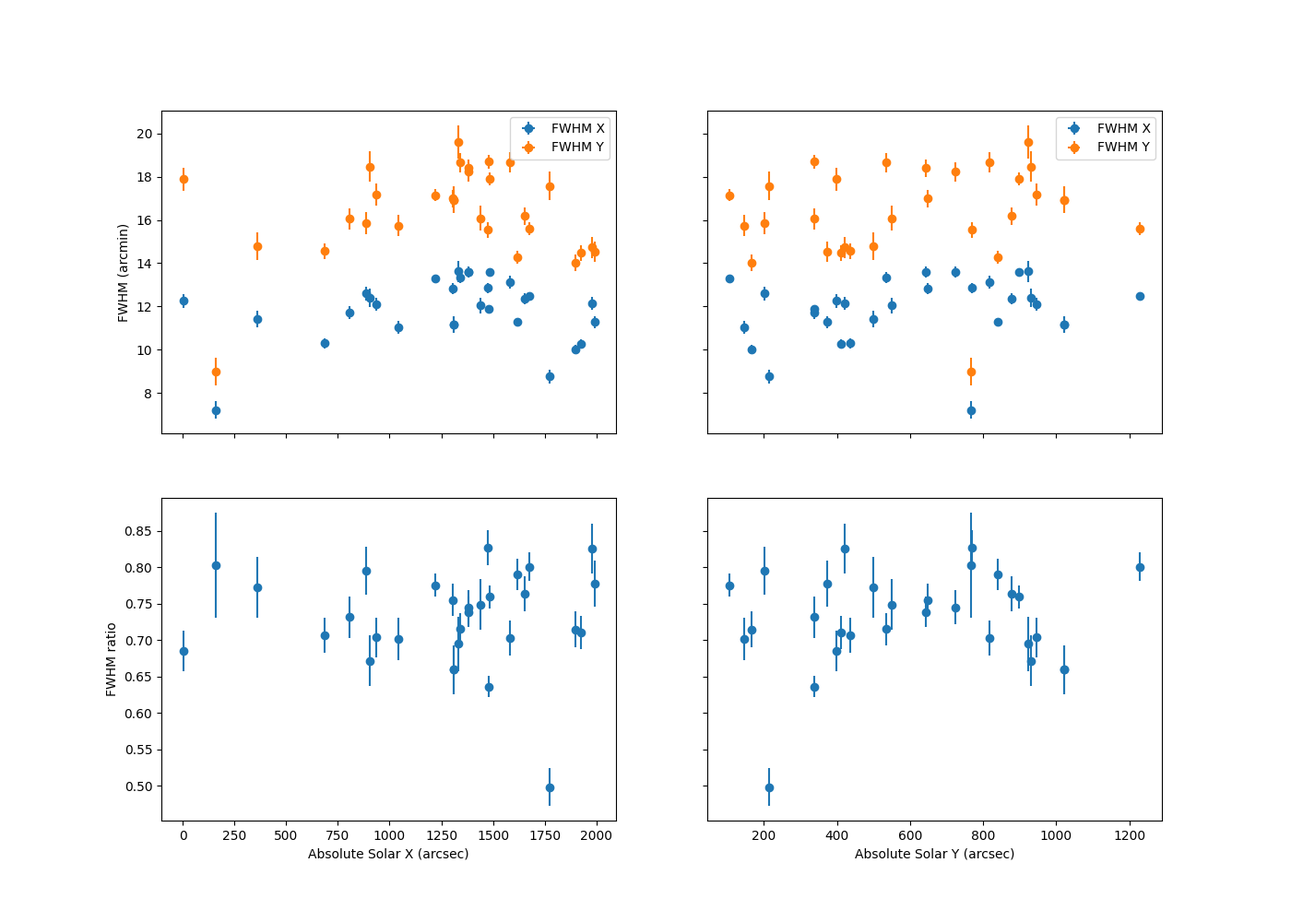
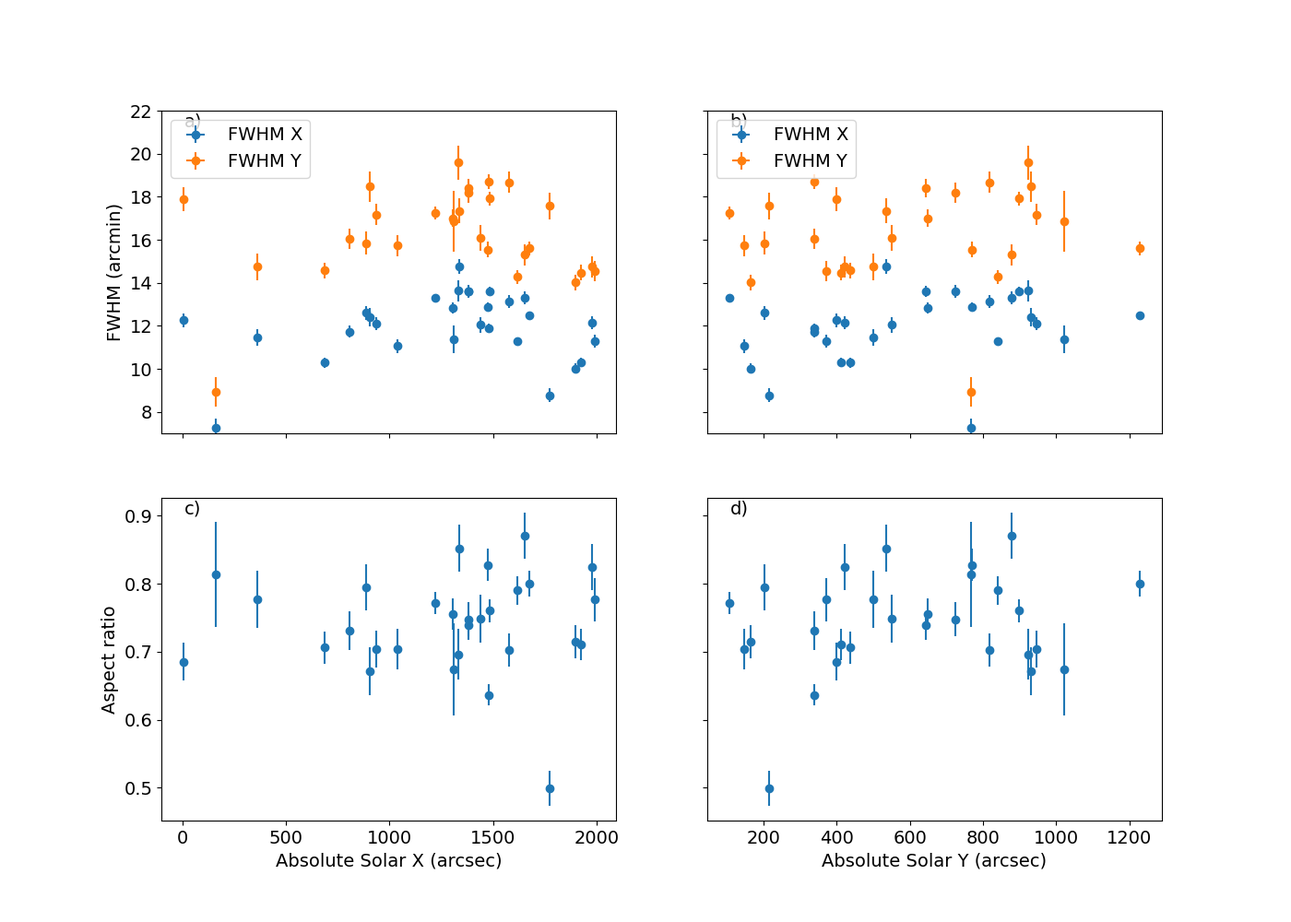
adding analysis from Eoin's comments

diff --git a/5/observations_vs_theory.tex b/5/observations_vs_theory.tex
@@ -2,7 +2,7 @@
 \doublespacing
 \chapter{The intrinsic sizes of Type III radio bursts and comparison to recent simulations.}
 \label{chap:observations_vs_theory}
-Recent developments in the modelling of radio waves in a turbulent corona have made predictions about source sizes that have not yet been qualitatively compared to interferometric observations. Scattering of radio waves off of density inhomogeneities in the solar corona is considered to be the dominant cause of the size and shape of radio bursts. By understanding scattering, the turbulent nature of processes that generate density inhomogeneities can be studied. Turbulence in the corona can give insight into how energy is transferred from large scale phenomena down to the microscales potentially resulting in the million degree Kelvin temperatures that have puzzled solar physicists for decades. New models of radio wave scattering, therefore, are the first step to solving fundamental physical problems in the solar corona. However, unless the models agree with observations, their use is limited and as such, comparisons between models and observations are crucial. In this chapter I utilise the direct visibility fitting method described in Chapter \ref{chap:measuring_source_sizes} and apply it to 30 Type III radio bursts observed with LOFAR from 10-90~MHz. Using a Markov Chain Monte Carlo (MCMC) fitting method, it is determined that these bursts have a mean size along the major and minor axis of FWHM\textsubscript{x} = 16.27 arcmin and FWHM\textsubscript{y} = 11.96 arcmin respectively. No trend of source size with respect to helioprojective angle is found, which is in direct contrast to predictions from modelling if the intrinsic size of a burst is a point source and the degree of anisotropy is high $\alpha \sim 0.3$. I discuss reasons for this discrepancy and how improved imaging and additions to scattering models can be used to resolve them.
+Recent developments in the modelling of radio waves in a turbulent corona have made predictions about source sizes that have not yet been qualitatively compared to interferometric observations. Scattering of radio waves off of density inhomogeneities in the solar corona is considered to be the dominant cause of the size and shape of radio bursts. By understanding scattering, the turbulent nature of processes that generate density inhomogeneities can be studied. Turbulence in the corona can give insight into how energy is transferred from large scale phenomena down to the microscales potentially resulting in the million degree Kelvin temperatures that have puzzled solar physicists for decades. New models of radio wave scattering, therefore, are the first step to solving fundamental physical problems in the solar corona. However, unless the models agree with observations, their use is limited and as such, comparisons between models and observations are crucial. In this chapter I utilise the direct visibility fitting method described in Chapter \ref{chap:measuring_source_sizes} and apply it to 29 Type III radio bursts observed with LOFAR from 10-90~MHz. Using a Markov Chain Monte Carlo (MCMC) fitting method, it is determined that these bursts have a mean size along the major and minor axis of FWHM\textsubscript{x} = 16.27 arcmin and FWHM\textsubscript{y} = 11.96 arcmin respectively. No trend of source size with respect to helioprojective angle is found, which is in direct contrast to predictions from modelling if the intrinsic size of a burst is a point source and the degree of anisotropy is high $\alpha \sim 0.3$. I discuss reasons for this discrepancy and how improved imaging and additions to scattering models can be used to resolve them.
 %This study suggests that although many are in agreement, further exploration of the parameters of scattering simulations are necessary before they can be used to predict the nature of coronal density inhomogeneities.
 
 \section{Introduction}
@@ -33,13 +33,13 @@ During the period 04 April 2019 to 14 April 2019 a Type III storm occurred on th
 
 \section{Method}
 \label{sec:obsvtheory_method}
-The size and position of 30 Type III radio bursts over the period of 04 April 2019 to 14 April 2019 were determined by directly fitting their interferometric visibilities. The bursts were identified in LOFAR beamformed observations and their peak time determined using an automatic peak finding algorithm. Peaks are found from the spectrum by first averaging over 16 subbands around 30~MHz and smoothing the resulting time series. Then the \texttt{scipy} Python library \citep{Virtanen2020} is used to determine the peaks by comparing to neighbouring values. This list of peaks is filtered so that only peaks greater than 5 times the standard deviation of the background are returned.
-Figure \ref{fig:dynamic_spectrum_070419} shows the automatically identified bursts at 30~MHz. In total, 320 bursts were identified in this way. Unfortunately, due to the strength of some of the radio bursts, the calibration of interferometric data did not converge for $\sim 90 \%$ of them. This occurs when flux from the source is detected in the side lobes of the beam observing the calibrator. Poor calibration is only identified by manual inspection of the calibrated visibilities. Calibration was successful for 30 bursts.  
+The size and position of 29 Type III radio bursts over the period of 04 April 2019 to 14 April 2019 were determined by directly fitting their interferometric visibilities. The bursts were identified in LOFAR beamformed observations and their peak time determined using an automatic peak finding algorithm. Peaks are found from the spectrum by first averaging over 16 subbands around 30~MHz and smoothing the resulting time series. Then the \texttt{scipy} Python library \citep{Virtanen2020} is used to determine the peaks by comparing to neighbouring values. This list of peaks is filtered so that only peaks greater than 5 times the standard deviation of the background are returned.
+Figure \ref{fig:dynamic_spectrum_070419} shows the automatically identified bursts at 30~MHz. In total, 320 bursts were identified in this way. Unfortunately, due to the strength of some of the radio bursts, the calibration of interferometric data did not converge for $\sim 90 \%$ of them. This occurs when flux from the source is detected in the side lobes of the beam observing the calibrator. Poor calibration is only identified by manual inspection of the calibrated visibilities. Calibration was successful for 29 bursts.  
 
 \begin{figure}[ht]
 \centering
-\includegraphics[width=\columnwidth]{peak_times_30MHz_2019-04-07T120000_130000.png}
-\caption[Dynamic spectrum of Type III storm on 07 April 2019.]{Dynamic spectrum of Type III storm on 07 April 2019. The white dots indicate the bursts identified by an automatic peak finding algorithm, the red cross indicates the brightest burst.}
+\includegraphics[width=\columnwidth]{peak_times_30MHz_wlightcurve_2019-04-07T120000_130000.png}
+\caption[Type III storm observed on 07 April 2019.]{Type III storm observed on 07 April 2019. The top panel is the light curve at 30~MHz and the red dots indicate the detected peaks. The maximum peak is marked with a white cross. The bottom panel shows the dynamic spectrum of the storm. The white dots indicate the bursts identified by an automatic peak finding algorithm, the red cross indicates the brightest burst.}
 \label{fig:dynamic_spectrum_070419}
 \end{figure}
 
@@ -54,7 +54,7 @@ The most common form of MCMC algorithm is the Metropolis-Hastings (M-H) method w
 \label{eq:MHnewstate}
 a = \frac{p(x^\prime \vert D)}{p(x^{t} \vert D)} \frac{Q(x^\prime;x^{(t)})}{Q(x^{(t)};x^\prime)}
 \end{equation}
-is computed. If $a > 1$ the new state is accepted, otherwise it is accepted with probability $a$. Note that if a state is not accepted, the position $x^{(t)}$ is repeated on the chain. Successive samples in a Markov chain are dependent meaning that it is only as $t \rightarrow \infty$, that the probability density function of $x^{(t)}$ tends towards $p(\Theta \vert D)$. An improvement to the M-H algorithm which speeds up convergence is proposed by \cite{Goodman2010} and implemented in the \texttt{emcee} Python library \citep{Foreman-Mackey2012}. This method uses an ensemble of \textit{walkers} to determine the proposal distribution. For each walker $k$ in an ensemble of $K$ walkers, the proposed state is determined by the positions of the remaining $K-1$ walkers in the ensemble. To determine a move for the walker at $x_k^{(t)}$, a walker $x_j, j \neq k$ is chosen from the ensemble and the proposed move has the form
+is computed. If $a > 1$ the new state is accepted and the next iteration occurs. Otherwise the state is accepted with probability $a$. Note that if a state is not accepted, the position $x^{(t)}$ is repeated on the chain. Successive samples in a Markov chain are dependent meaning that it is only as $t \rightarrow \infty$, that the probability density function of $x^{(t)}$ tends towards $p(x \vert D)$. An improvement to the M-H algorithm which speeds up convergence is proposed by \cite{Goodman2010} and implemented in the \texttt{emcee} Python library \citep{Foreman-Mackey2012}. This method uses an ensemble of \textit{walkers} to determine the proposal distribution. For each walker $k$ in an ensemble of $K$ walkers, the proposed state is determined by the positions of the remaining $K-1$ walkers in the ensemble. To determine a move for the walker at $x_k^{(t)}$, a walker $x_j, j \neq k$ is chosen from the ensemble and the proposed move has the form
 \begin{equation}
 \label{eq:MCMC_walkers}
 x_k^{(t)} \rightarrow x^\prime = x_j + Z(x_k^{(t)} - x_j).
@@ -92,12 +92,12 @@ Once the MCMC has run for enough time to generate independent samples of the pos
 \end{figure}
 
 %As well as determining the source shape and position at its peak, the area of the source over its duration was also measured. This was done by fitting a straight line to the source area over the duration of the burst, which was estimated to be 1 second before its peak and 2 seconds afterwards.
-
+The magnetic field structure around AR 12738 was determined by using a Potential Field Source Surface (PFSS) model using the Python library \texttt{pfsspy} \citep{Stansby2020}.
 
 
 \section{Results}
 \label{sec:obsvtheory_results}
-The parameters for all 30 fitted bursts are given in Table \ref{tab:dataset} where $I_0$ is the maximum intensity of the burst, $x_0$ and $y_0$ are the x and y  helioprojective coordinates of the burst, FWHM\textsubscript{x} and FWHM\textsubscript{y} are the burst sizes in the x and y direction and $\theta$ is the position angle of the fitted Gaussian. Each fitted type III burst is plotted in helioprojective coordinates in Figure \ref{fig:burst_overlay}. It is clear from the figure that most bursts share a similar size and aspect ratio despite their relatively widespread origin in relation to the Sun's disk.
+The parameters for all 29 fitted bursts are given in Table \ref{tab:dataset} where $I_0$ is the maximum intensity of the burst, $x_0$ and $y_0$ are the x and y  helioprojective coordinates of the burst, FWHM\textsubscript{x} and FWHM\textsubscript{y} are the burst sizes in the x and y direction and $\theta$ is the position angle of the fitted Gaussian. Each fitted type III burst is plotted in helioprojective coordinates in Figure \ref{fig:burst_overlay}. It is clear from the figure that most bursts share a similar size and aspect ratio despite their relatively widespread origin in relation to the Sun's disk.
 
 \begin{figure}[ht]
 \centering
@@ -109,43 +109,42 @@ The parameters for all 30 fitted bursts are given in Table \ref{tab:dataset} whe
 %\begin{landscape}
 \begin{table}
 \centering
-\caption[Table of fitted burst parameters]{Table of fitted burst parameters for each of the 30 bursts described in Section \ref{sec:obsvtheory_method}. The units in each column are given in brackets. Here $I_0$ is the maximum intensity of the burst, $x_0$ and $y_0$ are the x and y helioprojective coordinates of the burst, FWHM\textsubscript{x} and FWHM\textsubscript{y} are the burst sizes along the minor and major axes and $\theta$ is the position angle of the fitted Gaussian.}
+\caption[Table of fitted burst parameters]{Table of fitted burst parameters for each of the 29 bursts described in Section \ref{sec:obsvtheory_method}. The units in each column are given in brackets. Here $I_0$ is the maximum intensity of the burst, $x_0$ and $y_0$ are the x and y helioprojective coordinates of the burst, FWHM\textsubscript{x} and FWHM\textsubscript{y} are the burst sizes along the minor and major axes and $\theta$ is the position angle of the fitted Gaussian.}
 \label{tab:dataset}
-\begin{tabular}{lcccccc}
+\begin{tabular}{lcccccc p{\columnwidth}}
 \toprule
 Burst Time & $I_0$  & $x_0$ & $y_0$  & FWHM\textsubscript{x} & FWHM\textsubscript{y} & $\theta$ \\
- & (Jy) & (arcsec) & (arcsec) & (arcmin) & (arcmin) &  (deg) \\
+ 2019-04 & (Jy) & (arcsec) & (arcsec) & (arcmin) & (arcmin) &  (deg) \\
 \midrule
-2019-04-05T12:08:08 &   90333.34 & -1772.89 &   213.66 &    8.76 &   17.58 &  -26.59 \\
-2019-04-07T12:02:28 &   83782.44 & -1924.03 &   411.53 &   10.28 &   14.48 &  -56.52 \\
-2019-04-07T12:04:21 &  108123.57 & -1990.30 &   372.36 &   11.29 &   14.52 &  -66.65 \\
-2019-04-07T12:15:07 &  160081.88 & -1677.12 &  1228.90 &   12.48 &   15.59 &  -43.79 \\
-2019-04-07T12:30:59 &  120107.74 & -1896.80 &   165.35 &   10.01 &   14.02 &  -56.17 \\
-2019-04-07T12:51:39 &   47916.36 & -1979.35 &   420.47 &   12.15 &   14.72 &  -67.42 \\
-2019-04-08T12:00:15 &  117196.69 & -1310.37 &  1020.77 &   11.16 &   16.93 &  -63.68 \\
-2019-04-08T12:00:15 &  117196.69 & -1310.37 &  1020.77 &   11.16 &   16.93 &  -63.68 \\
-2019-04-08T12:06:40 &  316272.33 & -1579.55 &   818.51 &   13.12 &   18.67 &  -65.64 \\
-2019-04-08T12:08:36 &   60696.79 & -1616.67 &   840.69 &   11.28 &   14.28 &  -50.02 \\
-2019-04-08T12:22:34 &  171058.10 & -1380.68 &   643.10 &   13.59 &   18.40 &  -60.80 \\
-2019-04-08T12:26:53 &  111428.17 & -1479.15 &   338.94 &   11.89 &   18.69 &  -58.46 \\
-2019-04-08T12:29:00 &   77443.59 & -1341.21 &   533.82 &   13.33 &   18.65 &  -58.68 \\
-2019-04-08T12:34:57 &  176944.04 &  -934.63 &   947.11 &   12.09 &   17.18 &  -71.76 \\
-2019-04-08T12:35:35 &  277659.44 &  -902.94 &   931.06 &   12.39 &   18.46 &  -61.85 \\
-2019-04-08T12:42:59 &  119228.99 & -1653.25 &   878.17 &   12.36 &   16.18 &  -60.06 \\
-2019-04-08T12:47:06 &  155057.08 & -1381.63 &   723.48 &   13.58 &   18.22 &  -62.20 \\
-2019-04-08T12:48:49 &  296662.11 & -1305.03 &   648.47 &   12.83 &   16.99 &  -61.59 \\
-2019-04-08T12:50:26 &  129463.84 & -1331.87 &   924.36 &   13.61 &   19.59 &  -89.59 \\
-2019-04-08T12:54:34 &  207041.12 & -1485.08 &   898.27 &   13.60 &   17.91 &  -71.72 \\
-2019-04-08T12:59:24 &  177435.14 & -1473.30 &   768.77 &   12.85 &   15.54 &  -65.86 \\
-2019-04-11T12:56:26 &  215905.79 & -1221.80 &  -105.80 &   13.30 &   17.15 &   -0.49 \\
-2019-04-12T12:00:18 &  179265.16 &  -362.53 &   500.60 &   11.41 &   14.77 &  -87.46 \\
-2019-04-12T12:04:55 &  130911.18 &     3.26 &   399.69 &   12.25 &   17.88 & -101.70 \\
-2019-04-12T12:14:50 &   43288.32 & -1438.75 &  -549.49 &   12.04 &   16.08 &  -83.24 \\
-2019-04-12T12:39:31 &   86016.46 & -1040.30 &  -146.83 &   11.04 &   15.73 &  -91.31 \\
-2019-04-12T12:49:33 &   74776.61 &  -888.52 &  -202.43 &   12.60 &   15.84 &  -79.74 \\
-2019-04-12T12:51:54 &  132627.29 &  -805.26 &  -338.33 &   11.73 &   16.05 &  -82.21 \\
-2019-04-12T12:53:51 &  127718.17 &  -687.98 &  -436.28 &   10.29 &   14.56 &  -83.17 \\
-2019-04-13T12:30:30 &  100613.83 &  -162.06 &  -766.36 &    7.21 &    8.98 &  -75.73 \\
+05T12:08:08 &  $ 90300 \pm 1310$ & $-1773 \pm 6$  & $  214 \pm 8$  &  $  8.8 \pm 0.3$ &  $ 17.58 \pm 0.6$ & $ -27 \pm 2$ \\
+07T12:02:28 &  $ 83800 \pm  678$ & $-1924 \pm 3$  & $  412 \pm 4$  &  $ 10.3 \pm 0.2$ &  $ 14.48 \pm 0.4$ & $ -55 \pm 2$ \\
+07T12:04:21 &  $108000 \pm 1110$ & $-1990 \pm 5$  & $  372 \pm 5$  &  $ 11.3 \pm 0.3$ &  $ 14.52 \pm 0.5$ & $ -67 \pm 3$ \\
+07T12:15:07 &  $160000 \pm 1100$ & $-1677 \pm 3$  & $ 1229 \pm 4$  &  $ 12.5 \pm 0.2$ &  $ 15.59 \pm 0.3$ & $ -44 \pm 2$ \\
+07T12:30:59 &  $120000 \pm 1010$ & $-1897 \pm 4$  & $  165 \pm 4$  &  $ 10.0 \pm 0.2$ &  $ 14.02 \pm 0.4$ & $ -56 \pm 2$ \\
+07T12:51:39 &  $ 47900 \pm  505$ & $-1979 \pm 5$  & $  420 \pm 5$  &  $ 12.2 \pm 0.3$ &  $ 14.72 \pm 0.5$ & $ -67 \pm 4$ \\
+08T12:00:15 &  $117000 \pm 1770$ & $-1310 \pm 7$  & $ 1021 \pm 7$  &  $ 11.2 \pm 0.6$ &  $ 16.93 \pm 1.4$ & $ -64 \pm 78$ \\
+08T12:06:40 &  $316000 \pm 3380$ & $-1580 \pm 6$  & $  819 \pm 6$  &  $ 13.1 \pm 0.3$ &  $ 18.67 \pm 0.5$ & $ -66 \pm 2$ \\
+08T12:08:36 &  $ 60700 \pm  442$ & $-1617 \pm 3$  & $  841 \pm 4$  &  $ 11.3 \pm 0.2$ &  $ 14.28 \pm 0.3$ & $ -50 \pm 3$ \\
+08T12:22:34 &  $171000 \pm 1530$ & $-1381 \pm 5$  & $  643 \pm 5$  &  $ 13.6 \pm 0.2$ &  $ 18.40 \pm 0.4$ & $ -61 \pm 2$ \\
+08T12:26:53 &  $111000 \pm  800$ & $-1479 \pm 4$  & $  339 \pm 4$  &  $ 11.9 \pm 0.2$ &  $ 18.69 \pm 0.3$ & $ -58 \pm 1$ \\
+08T12:29:00 &  $ 77400 \pm  862$ & $-1341 \pm 6$  & $  534 \pm 6$  &  $ 13.3 \pm 0.3$ &  $ 18.65 \pm 0.6$ & $ -59 \pm 1$ \\
+08T12:34:57 &  $177000 \pm 1900$ & $ -935 \pm 5$  & $  947 \pm 5$  &  $ 12.1 \pm 0.3$ &  $ 17.18 \pm 0.5$ & $ -72 \pm 2$ \\
+08T12:35:35 &  $278000 \pm 4130$ & $ -903 \pm 8$  & $  931 \pm 8$  &  $ 12.4 \pm 0.4$ &  $ 18.46 \pm 0.7$ & $ -62 \pm 3$ \\
+08T12:42:59 &  $120000 \pm 1180$ & $-1653 \pm 5$  & $  878 \pm 5$  &  $ 12.4 \pm 0.3$ &  $ 16.18 \pm 0.5$ & $ -60 \pm 1$ \\
+08T12:47:06 &  $160000 \pm 1500$ & $-1382 \pm 5$  & $  723 \pm 5$  &  $ 13.6 \pm 0.3$ &  $ 18.22 \pm 0.5$ & $ -62 \pm 2$ \\
+08T12:48:49 &  $300000 \pm 2630$ & $-1305 \pm 4$  & $  648 \pm 5$  &  $ 12.8 \pm 0.2$ &  $ 16.99 \pm 0.4$ & $ -62 \pm 2$ \\
+08T12:50:26 &  $130000 \pm 2080$ & $-1332 \pm 9$  & $  924 \pm 9$  &  $ 13.6 \pm 0.5$ &  $ 19.59 \pm 0.8$ & $ -90 \pm 88$ \\
+08T12:54:34 &  $207000 \pm 1370$ & $-1485 \pm 4$  & $  898 \pm 4$  &  $ 13.6 \pm 0.2$ &  $ 17.91 \pm 0.3$ & $ -72 \pm 2$ \\
+08T12:59:24 &  $177000 \pm 1380$ & $-1473 \pm 4$  & $  769 \pm 4$  &  $ 12.9 \pm 0.2$ &  $ 15.54 \pm 0.4$ & $ -66 \pm 3$ \\
+11T12:56:26 &  $216000 \pm 1510$ & $-1222 \pm 3$  & $ -106 \pm 4$  &  $ 13.3 \pm 0.2$ &  $ 17.15 \pm 0.3$ & $  0  \pm 2$ \\
+12T12:00:18 &  $180000 \pm 2350$ & $ -363 \pm 6$  & $  501 \pm 6$  &  $ 11.4 \pm 0.4$ &  $ 14.77 \pm 0.6$ & $ -87 \pm 2$ \\
+12T12:04:55 &  $131000 \pm 1550$ & $    3 \pm 6$  & $  400 \pm 6$  &  $ 12.3 \pm 0.3$ &  $ 17.88 \pm 0.6$ & $-102 \pm 2$ \\
+12T12:14:50 &  $ 43300 \pm  549$ & $-1439 \pm 6$  & $ -549 \pm 6$  &  $ 12.0 \pm 0.4$ &  $ 16.08 \pm 0.6$ & $ -83 \pm 3$ \\
+12T12:39:31 &  $ 86000 \pm  918$ & $-1040 \pm 5$  & $ -147 \pm 5$  &  $ 11.0 \pm 0.3$ &  $ 15.73 \pm 0.5$ & $ -91 \pm 1$ \\
+12T12:49:33 &  $ 74800 \pm  855$ & $ -889 \pm 5$  & $ -202 \pm 6$  &  $ 12.6 \pm 0.3$ &  $ 15.84 \pm 0.5$ & $ -80 \pm 4$ \\
+12T12:51:54 &  $133000 \pm 1340$ & $ -805 \pm 5$  & $ -338 \pm 5$  &  $ 11.7 \pm 0.3$ &  $ 16.05 \pm 0.5$ & $ -82 \pm 3$ \\
+12T12:53:51 &  $128000 \pm 1000$ & $ -688 \pm 4$  & $ -436 \pm 4$  &  $ 10.3 \pm 0.2$ &  $ 14.56 \pm 0.4$ & $ -83 \pm 2$ \\
+13T12:30:30 &  $101000 \pm 1210$ & $ -162 \pm 4$  & $ -766 \pm 5$  &  $  7.2 \pm 0.4$ &  $  8.98 \pm 0.7$ & $ -76 \pm 84$ \\
 \bottomrule
 
 \end{tabular}
@@ -190,7 +189,7 @@ Burst Time & $I_0$  & $x_0$ & $y_0$  & FWHM\textsubscript{x} & FWHM\textsubscrip
 The size of each burst, is plotted against the distance from the disk centre in the x and y direction in Figure \ref{fig:fwhm_comp}. 
 %There is no obvious trend towards bigger/smaller bursts with increasing distance from disk centre
 % and, most strikingly, in direct contrast to the prediction by \cite{Kontar2019} 
-There is no trend in the aspect ratio of the bursts, which is expected to be a linear decrease from 1 near disk centre to $< 1$ near the limb. Figure \ref{fig:fwhm_hist} shows a histogram of FWHM\textsubscript{x} and FWHM\textsubscript{y}in the range of 6 to 20 arcmins. The mean size of the bursts is indicated by a vertical grey dashed line and is $11.96$ arcmin for FWHM\textsubscript{x} and $16.27$ arcmin for FWHM\textsubscript{y}. The mean aspect ratio of the bursts is $\sim 0.74$.
+There is no trend in the aspect ratio of the bursts, which is expected to be a linear decrease from 1 near disk centre to $< 1$ near the limb. Figure \ref{fig:burst_hist}a shows a histogram of FWHM\textsubscript{x} and FWHM\textsubscript{y}in the range of 6 to 20 arcmins. The mean size of the bursts is indicated by a vertical grey dashed line and is $11.96$ arcmin for FWHM\textsubscript{x} and $16.27$ arcmin for FWHM\textsubscript{y}. The mean aspect ratio of the bursts is $\sim 0.74$. The histogram of burst aspect ratios is given in \ref{fig:burst_hist}b
 
 \begin{figure}[ht]
 \centering
@@ -201,41 +200,50 @@ There is no trend in the aspect ratio of the bursts, which is expected to be a l
 
 \begin{figure}[ht]
 \centering
-\includegraphics[width=\columnwidth]{burst_fwhm_histogram.png}
-\caption[Histogram of type III burst sizes.]{Histogram of type III burst sizes. Bins are 1 arcmin wide and the vertical dashed lines indicate the mean value for FWHM\textsubscript{x} (blue) and FWHM\textsubscript{y} (red).}
-\label{fig:fwhm_hist}
+\includegraphics[width=\columnwidth]{burst_3histogram.png}
+\caption[Histograms of type III burst sizes, aspect ratios and relative angles.]{a) Histogram of type III burst sizes. Bins are 1 arcmin wide and the vertical dashed lines indicate the mean value for FWHM\textsubscript{x} (blue) and FWHM\textsubscript{y} (red). b) Histogram of type III burst aspect ratios. The vertical purple dashed line indicates the mean value for the aspect ratio FWHM\textsubscript{x}/FWHM\textsubscript{y}. c) Histogram of type III burst relative angles. The vertical green dashed line indicates the mean value for the angle between the minor axis of the burst and a line joining its centre to (0,0).}
+\label{fig:burst_hist}
 \end{figure}
 
-\begin{figure}[ht]
-\centering
-\includegraphics[width=\columnwidth]{burst_fwhm_ratio_histogram.png}
-\caption[Histogram of type III burst aspect ratios.]{Histogram of type III burst aspect ratios. The vertical purple dashed line indicates the mean value for the aspect ratio FWHM\textsubscript{x}/FWHM\textsubscript{y}.}
-\label{fig:fwhm_ratio_hist}
-\end{figure}
+%\begin{figure}[ht]
+%\centering
+%\includegraphics[width=\columnwidth]{burst_fwhm_ratio_histogram.png}
+%\caption[Histogram of type III burst aspect ratios.]{Histogram of type III burst aspect ratios. The vertical purple dashed line indicates the mean value for the aspect ratio FWHM\textsubscript{x}/FWHM\textsubscript{y}.}
+%\label{fig:fwhm_ratio_hist}
+%\end{figure}
 
-The relative angle of each burst i.e. the angle between the minor axis of the burst and a line from its centre to (0,0) in helioprojective coordinates, is plotted as a histogram in Figure \ref{fig:rel_ang_hist}. These are peaked in the $-20^\circ - 0^\circ$ bin and have a mean of $-18.33^\circ$.
+The relative angle of each burst i.e. the angle between the minor axis of the burst and a line from its centre to (0,0) in helioprojective coordinates, is plotted as a histogram in Figure \ref{fig:burst_hist}c. These are peaked in the $-20^\circ - 0^\circ$ bin and have a mean of $-18.33^\circ$.
 
-\begin{figure}[ht]
-\centering
-\includegraphics[width=\columnwidth]{burst_relative_angle_histogram.png}
-\caption[Histogram of type III burst relative angles.]{Histogram of type III burst relative angles. The vertical green dashed line indicates the mean value for the angle between the minor axis of the burst and a line joining its centre to (0,0).}
-\label{fig:rel_ang_hist}
-\end{figure}
+%\begin{figure}[ht]
+%\centering
+%\includegraphics[width=\columnwidth]{burst_relative_angle_histogram.png}
+%\caption[Histogram of type III burst relative angles.]{Histogram of type III burst relative angles. The vertical green dashed line indicates the mean value for the angle between the minor axis of the burst and a line joining its centre to (0,0).}
+%\label{fig:rel_ang_hist}
+%\end{figure}
 
 \section{Discussion}
 \label{sec:obsvtheory_discussion}
-The observed source sizes of Type III bursts are largely consistent with previous observations at similar frequencies in both interferometric and tied-array observations \citep{Kontar2017, Zhang2020}. In particular, the mean of the size in the major and minor axes is in agreement a previous measurement using the visibility fitting method \citep{Murphy2021}. As well as this, all 30 of the fitted bursts have an aspect ratio (defined above) of less than 1, which is suggestive of preferential scattering in a particular direction \citep{Anantharamaiah1994, Bastian1994}. The peaked distribution of relative angles in Figure \ref{fig:rel_ang_hist} is further evidence for alignment along a preferred direction. If this direction were radial one would expect a peak around $0^\circ$ however here a mean value of $-18.33^\circ$ is observed. A thorough examination of the magnetic field structure of the active region could determine whether the bursts are well aligned perpendicular to the magnetic field lines as has been observed in the solar wind \citep{Anantharamaiah1994, SasikumarRaja2016}. The assumption that the radio bursts are generated in open field lines above the active region 12738 also has some observational evidence. The large cluster of bursts in the north east corner of Figure \ref{fig:burst_overlay} shows bursts from when the active region is just behind the limb to when it rotates around.
+The observed source sizes of Type III bursts are largely consistent with previous observations at similar frequencies in both interferometric and tied-array observations \citep{Kontar2017, Zhang2020}. In particular, the mean of the size in the major and minor axes is in agreement a previous measurement using the visibility fitting method \citep{Murphy2021}. As well as this, all 29 of the fitted bursts have an aspect ratio (defined above) of less than 1, which is suggestive of preferential scattering in a particular direction \citep{Anantharamaiah1994, Bastian1994}. The peaked distribution of relative angles in Figure \ref{fig:burst_hist}c is further evidence for alignment along a preferred direction. If this direction were radial one would expect a peak around $0^\circ$ however here a mean value of $-18.33^\circ$ is observed. An examination of the magnetic field structure of the active region shows that, for the most part, the bursts are aligned perpendicular to the magnetic field lines. Figure \ref{fig:pfss_overlay} a shows one such burst. This is in agreement to observations of bursts in the solar wind \citep{Anantharamaiah1994, SasikumarRaja2016}. The assumption that the radio bursts are generated in open field lines above the active region 12738 also has some observational evidence, although there are a number of bursts that do not appear to be associated with the active region and may be better described as originating behind the limb, e.g. the burst in panel b of Figure \ref{fig:pfss_overlay}. %The large cluster of bursts in the north east corner of Figure \ref{fig:burst_overlay} shows bursts from when the active region is just behind the limb to when it rotates around.
 
-There is one major deviation between the model of scattering through anisotropic density fluctuations in a spherically symmetric corona and these results. \cite{Kontar2019} predict that, for a point source, the aspect ratio of a radio burst should decrease with increasing heliocentric longitude, i.e. distance away from the disk centre along the solar equator. However, as shown in Figure \ref{fig:fwhm_comp}, no such trend is evident in the data.  The simplest, and perhaps most appropriate, answer to why this is the case is mentioned in the discussion of \cite{Kontar2019}. They argue that the total observed size can be considered as the intrinsic size of a burst and the size due to scattering of a point source added in quadrature FWHM\textsubscript{total} = (FWHM\textsuperscript{2}\textsubscript{intrinsic} + FWHM\textsuperscript{2}\textsubscript{scattering})$^{1/2}$. Therefore, no trend in source sizes could suggest that Type III bursts have an intrinsic size that is greater than the size due to scattering. An alternative explanation could be that the anisotropy is much less than \cite{Kontar2019} suggest, perhaps having a value closer to $\alpha = 0.5$. This explanation is less likely because the effect of anisotropic density inhomogeneities is most evident near the solar limb where the majority of the bursts were observed. Thus this is the most likely location to see a change in aspect ratio with respect to heliocentric angle but this is still not the case.
+\begin{figure}[ht]
+\centering
+\includegraphics[width=\columnwidth]{pfss_burst_overlay.png}
+\caption[Overlay of burst location with PFSS from active region 12738]{Overlay of burst location with PFSS from active region 12738. The background image is an AIA 193 \AA \ image of the Sun at the time indicated in the title.Red contours are teh intensity of the radio burst from 50\% of the max value to 100\% in steps of 10\%. Open field lines are shown in yellow, white lines are closed field lines. Panel a shows the Type III burst is oriented quasi-perpendicular to an open field line from AR 12738. Panel b shows a Type III burst that is not associated with any open field lines from the PFSS and may have originated behind the limb.}
+\label{fig:pfss_overlay}
+\end{figure}
 
-The histogram of burst sizes in Figure \ref{fig:fwhm_hist} shows that the minor size of the bursts are peaked around the mean whereas the major size shows no peak. It stands to reason that the source size in the minor direction undergoes less scattering, therefore retaining its intrinsic size, than in the major direction where the size distribution is almost random.
+There is one major deviation between the model of scattering through anisotropic density fluctuations in a spherically symmetric corona and these results. \cite{Kontar2019} predict that, for a point source, the aspect ratio of a radio burst should decrease with increasing heliocentric longitude, i.e. distance away from the disk centre along the solar equator. However, as shown in Figure \ref{fig:fwhm_comp}, no such trend is evident in the data.  
 
-Perhaps a more damning indictment for all scattering models comes when one relaxes the assumption of a spherically symmetric solar corona that is constant in time.  If, as is widely accepted, radio burst generation is concentrated in open magnetic field lines above the active region seen in Figure \ref{fig:ar_evolve} then the spectrum of density inhomogeneities is sure to change as the active region evolves. The time scale for this change is clearly less than the order of a few days, otherwise the trend in aspect ratio should be observed in Figure \ref{fig:fwhm_comp}. A lower limit on this time scale is more elusive. Bursts observed over the course of one hour on a given day all share a similar size, orientation and aspect ratio which gives a lower limit of at least one hour. Thus it is reasonable to assume that the power spectrum of density inhomogeneities is constant on the order of a few hours but not for time scales over a number of days. The exact change to the power spectrum during this time remains unknown but is undoubtedly linked to magnetic flux emergence in the active region and it is likely that the assumption of constant $\varepsilon$ is also incorrect and that either the level r.m.s fluctuations change or the actual electron density of the emitting region changes.
+There are a number of reasons why this may not be the case. Firstly, it is possible that calibration of the data actaully corrupted it . Assuming a perfect observation and data analysis the simplest, and perhaps most appropriate, answer to why this is the case is mentioned in the discussion of \cite{Kontar2019}. They argue that the total observed size can be considered as the intrinsic size of a burst and the size due to scattering of a point source added in quadrature FWHM\textsubscript{total} = (FWHM\textsuperscript{2}\textsubscript{intrinsic} + FWHM\textsuperscript{2}\textsubscript{scattering})$^{1/2}$. Therefore, no trend in source sizes could suggest that Type III bursts have an intrinsic size that is greater than the size due to scattering. An alternative explanation could be that the anisotropy is much less than \cite{Kontar2019} suggest, perhaps having a value closer to $\alpha = 0.5$. This explanation is less likely because the effect of anisotropic density inhomogeneities is most evident near the solar limb where the majority of the bursts were observed. Thus this is the most likely location to see a change in aspect ratio with respect to heliocentric angle but this is still not the case.
 
-The parameter space for the scattering model was explored by \cite{Zhang2021} who found that in order to match the observed decay time and size of a radio burst at 35 MHz, an anisotropy factor of $\alpha \sim 0.7$ was necessary. This agrees with my suggestion that $\alpha$ is larger than first suspected by \cite{Kontar2019} however, the frequency dependence of $\alpha$ has not been examined here.
+%The histogram of burst sizes in Figure \ref{fig:burst_hist}a shows that the minor size of the bursts are peaked around the mean whereas the major size is possibly double peaked. It stands to reason that the source size in the minor direction undergoes less scattering, therefore retaining its intrinsic size, than in the major direction where the size distribution is almost random.
 
-It is a fair criticism that absolute x positions in the range 0 - 1000 arcsec and absolute y positions in the range 0 - 200 arcsec are under sampled compared to the dense cluster of bursts observed around -1500 arcsec, 750 arcsec. The reason for this discrepancy, while not justifying it, is because of poor calibration of the interferometric visibilities as the radio noise storm became more intense. This coincided with the active region rotating to the centre of the solar disk and thus poor sampling in this region. That said, repeating the above analysis with bursts fitted even though there is poor calibration returns much the same result although with greater scatter and error, as one might expect. Therefore, even though the bursts shown in this chapter may not fully sample the space, they are properly representative of radio bursts in general. I also reiterate the point made above that the effect of scattering on source size is more evident near the limb which is well sampled. 
+%Perhaps a more damning indictment for all scattering models comes when one relaxes the assumption of a spherically symmetric solar corona that is constant in time.  If, as is widely accepted, radio burst generation is concentrated in open magnetic field lines above the active region seen in Figure \ref{fig:ar_evolve} then the spectrum of density inhomogeneities is sure to change as the active region evolves. The time scale for this change is clearly less than the order of a few days, otherwise the trend in aspect ratio should be observed in Figure \ref{fig:fwhm_comp}. A lower limit on this time scale is more elusive. Bursts observed over the course of one hour on a given day all share a similar size, orientation and aspect ratio which gives a lower limit of at least one hour. Thus it is reasonable to assume that the power spectrum of density inhomogeneities is constant on the order of a few hours but not for time scales over a number of days. The exact change to the power spectrum during this time remains unknown but is undoubtedly linked to magnetic flux emergence in the active region and it is likely that the assumption of constant $\varepsilon$ is also incorrect and that either the level r.m.s fluctuations change or the actual electron density of the emitting region changes.
+
+The parameter space for the scattering model was explored by \cite{Zhang2021} who found that in order to match the observed decay time and size of a radio burst at 35 MHz, an anisotropy factor of $\alpha \sim 0.7$ was necessary. %This agrees with my suggestion that $\alpha$ is larger than first suspected by \cite{Kontar2019} however, the frequency dependence of $\alpha$ has not been examined here.
+
+The absolute x positions in the range 0 - 1000 arcsec and absolute y positions in the range 0 - 200 arcsec are  possibly under sampled compared to the dense cluster of bursts observed around -1500 arcsec, 750 arcsec. The reason for this discrepancy, while not justifying it, is because of poor calibration of the interferometric visibilities as the radio noise storm became more intense. This coincided with the active region rotating to the centre of the solar disk and thus poor sampling in this region. That said, repeating the above analysis with bursts fitted even though there is poor calibration returns much the same result although with greater scatter and error, as one might expect. Therefore, even though the bursts shown in this chapter may not fully sample the space, they are properly representative of radio bursts in general. I also reiterate the point made above that the effect of scattering on source size is more evident near the limb which is well sampled. 
 
 \section{Conclusion}
-In this chapter I outlined the development of scattering models for radio waves in the solar corona from seminal works to modern day advancements. I also stated the importance that comparisons between these models and contemporary observations. I then detail the observation of hundreds of Type III radio bursts during a radio noise storm over the period 04 April 2019 to 14 April 2019. Using LOFAR interferometric visibilities at $\sim 30$ MHz and a method similar to \cite{Murphy2021} I fit 30 of the calibrated bursts to determine their size and shape. I find that Type III radio bursts have a mean size in the minor and major axis of $11.96$ arcmin for and $16.27$ arcmin respectively and a mean aspect ratio of 0.74. No trend in aspect ratio with respect to burst location is evident in the observations and as such, I attribute this to the intrinsic size of Type III radio bursts being greater than the size due to scattering. The relative angle between the minor axis of each burst and a radial line from the centre of the sun to its centre has a mean value of $-18.33^\circ$ and indicates preferential orientation, probably perpendicular to the local magnetic field lines. Using the mean values achieved as a typical intrinsic size agrees well with previous observations with LOFAR in both interferometric and tied-array images at similar frequencies.
+In this chapter I outlined the development of scattering models for radio waves in the solar corona from seminal works to modern day advancements. I also stated the importance that comparisons between these models and contemporary observations. I then detail the observation of hundreds of Type III radio bursts during a radio noise storm over the period 04 April 2019 to 14 April 2019. Using LOFAR interferometric visibilities at $\sim 30$ MHz and a method similar to \cite{Murphy2021} I fit 29 of the calibrated bursts to determine their size and shape. I find that Type III radio bursts have a mean size in the minor and major axis of $11.96$ arcmin for and $16.27$ arcmin respectively and a mean aspect ratio of 0.74. No trend in aspect ratio with respect to burst location is evident in the observations and as such, I attribute this to the intrinsic size of Type III radio bursts being greater than the size due to scattering. The relative angle between the minor axis of each burst and a radial line from the centre of the sun to its centre has a mean value of $-18.33^\circ$ and indicates preferential orientation, probably perpendicular to the local magnetic field lines. Using the mean values achieved as a typical intrinsic size agrees well with previous observations with LOFAR in both interferometric and tied-array images at similar frequencies.
 
